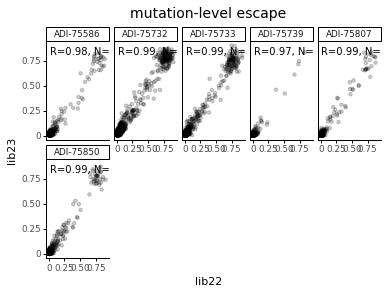
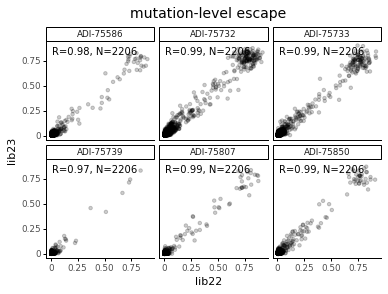
fix tracking of counts file, supp plots

diff --git a/results/summary/make_supp_data.md b/results/summary/make_supp_data.md
@@ -151,7 +151,7 @@ for metric_type, (set_name, condition_set) in itertools.product(['mutation', 'si
 
     # plot correlations
     nfacets = df_wide['selection'].nunique()
-    ncol = min(nfacets, 5)
+    ncol = min(nfacets, 3)
     nrow = math.ceil(nfacets / ncol)
     xmin = df_wide[libraries[0]].min()
     xspan = df_wide[libraries[0]].max() - xmin
